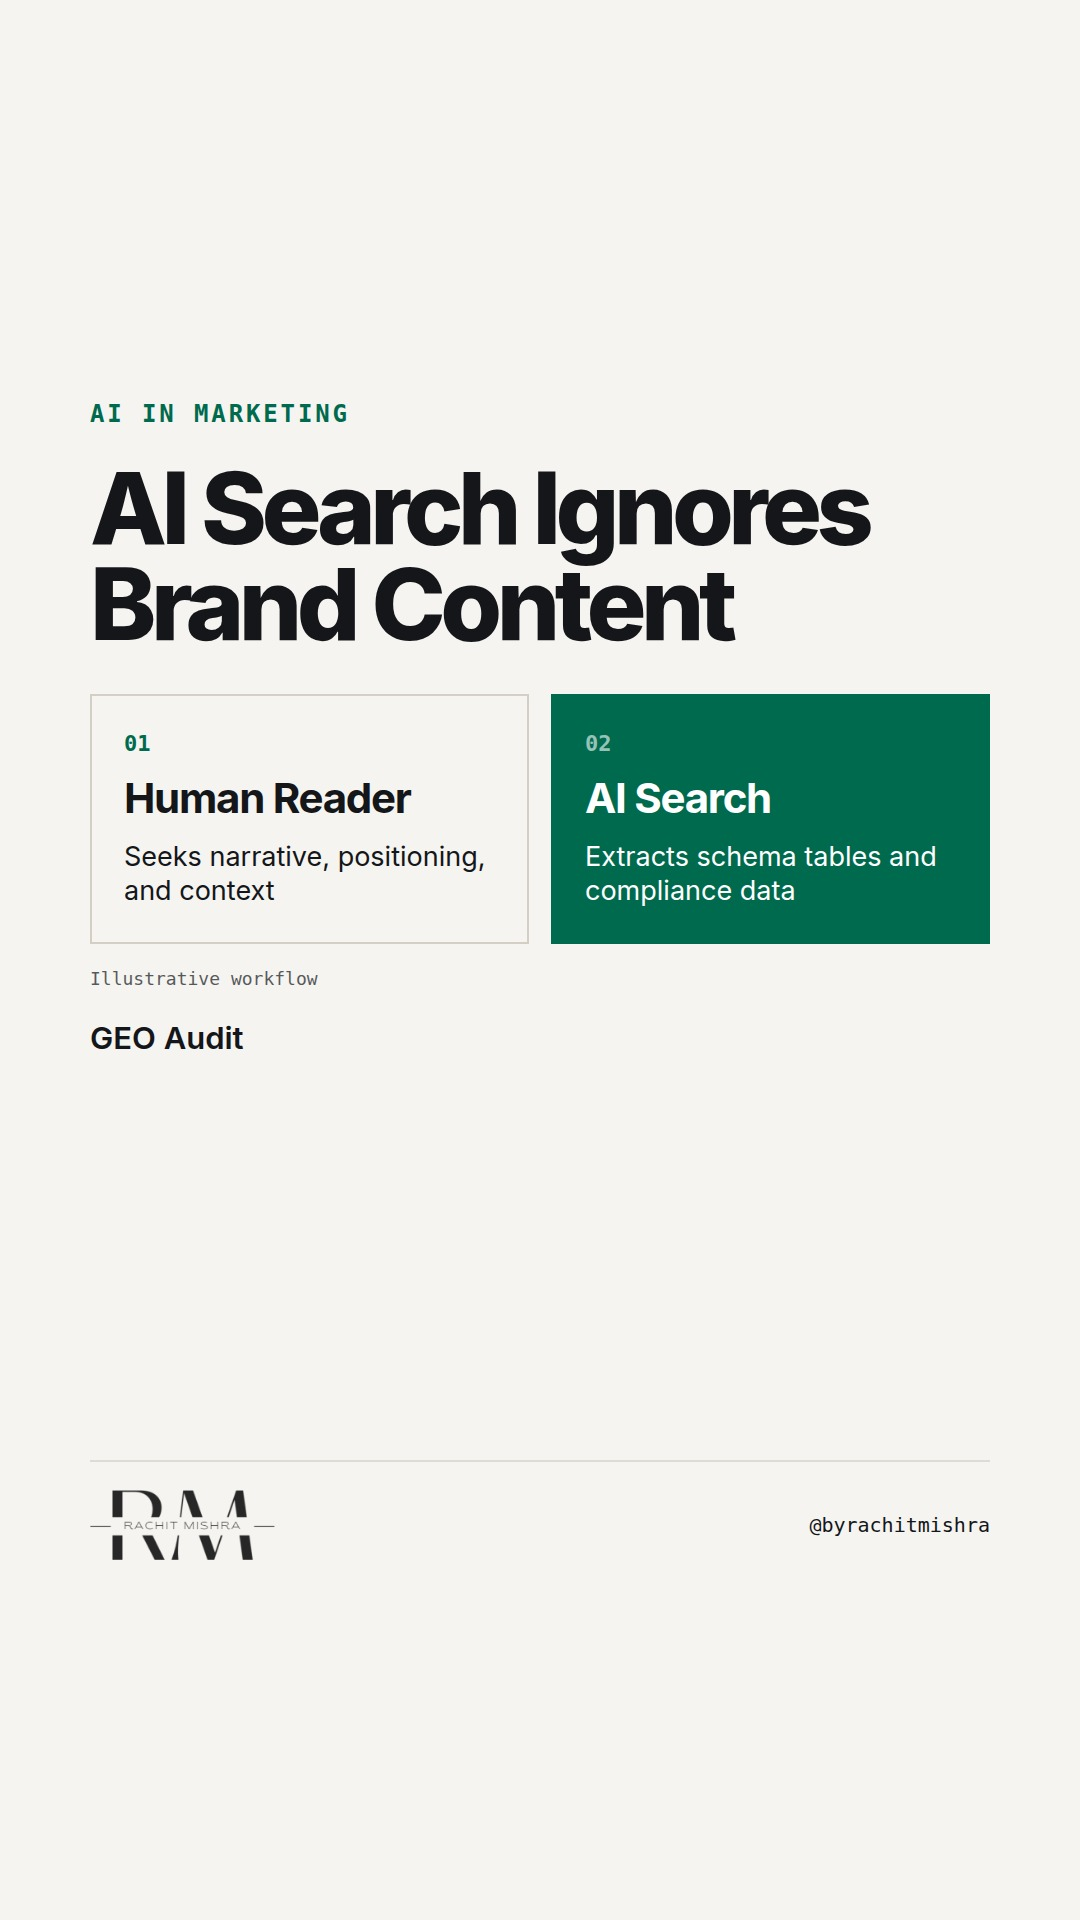
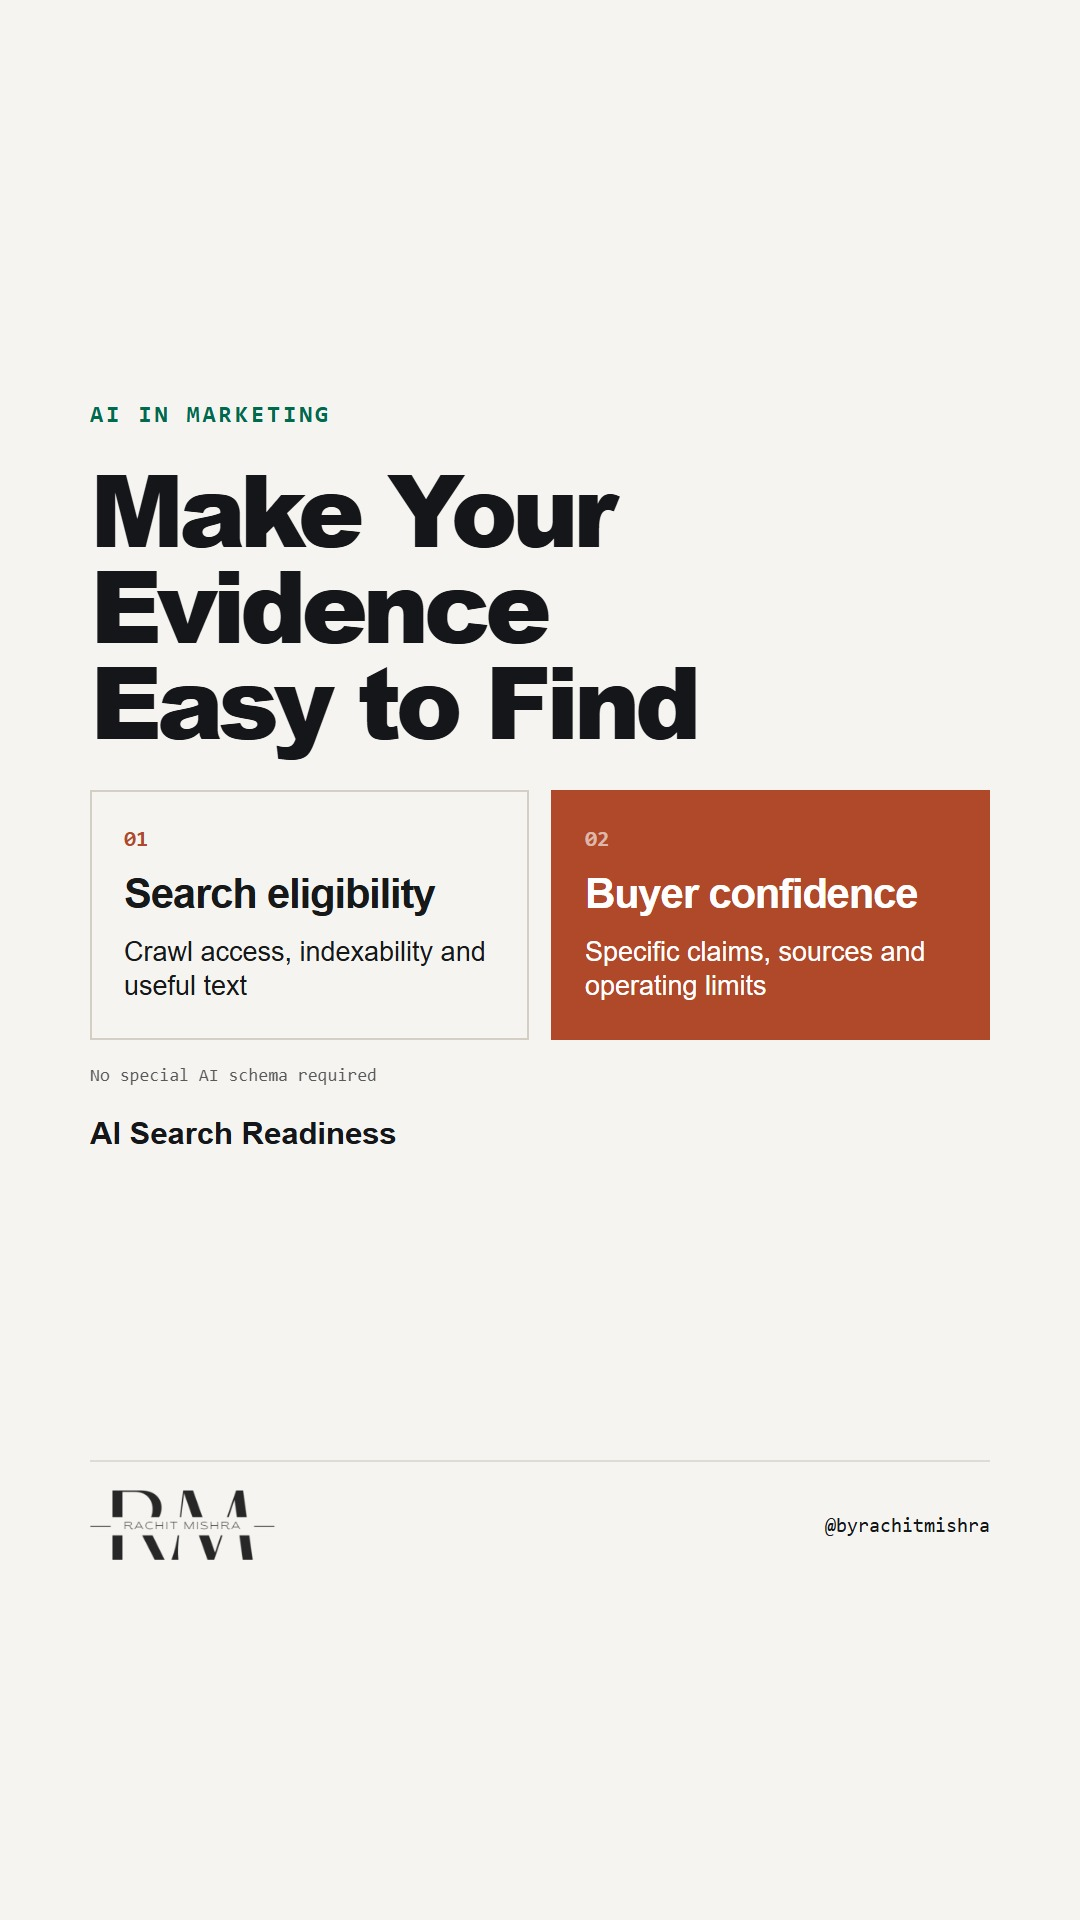
Correct AI-search guidance and AI-approval source for editorial review

Changed region(s): [[0.0611, 0.1875, 0.9167, 0.5938], [0.7639, 0.7812, 0.9167, 0.8125]]

diff --git a/content/approved/2026-11-02/fri-0830-generative-engine-optimisation-b2b/POST.md b/content/approved/2026-11-02/fri-0830-generative-engine-optimisation-b2b/POST.md
@@ -4,11 +4,11 @@
 
 > Targeting: `generative engine optimisation for B2B`
 >
-> Claim: AI search engines prioritize structured technical specifications and compliance data over traditional SEO content when answering enterprise procurement queries.
+> Claim: For Google's AI search features, SEO fundamentals remain relevant and no special schema is required. Clear, accessible evidence helps buyers understand a supplier's claims.
 >
-> Proof (framework): A three-part content structure test (structured spec sheets, regulatory tables, machine-readable pricing tiers) that ensures enterprise technical data is surfaced by generative answer engines.
+> Proof (framework): A practical audit of crawl access, visible technical evidence and source accuracy. Google's guidance says AI Overviews and AI Mode require no special schema; these checks do not guarantee inclusion or citation.
 >
-> Rendered infographics: 3 — comparison, comparison, checklist
+> Rendered infographics: 3 — checklist, checklist, comparison
 >
 > Reel assets: image `designed_gradient` · music `bed-something (13).mp3`
 
@@ -22,27 +22,36 @@
 
 | Time | On screen | Voiceover | Direction |
 |---|---|---|---|
-| 0:00-0:04 | **AI search ignores your polished blog posts.** | AI search ignores your polished blog posts. When a procurement team asks Perplexity or ChatGPT for vendor options, the model bypasses thought leadership. |  |
-| 0:04-0:09 | **Generative engines look for hard data.** | Generative engine optimisation for B2B requires a complete shift in format. AI engines extract facts, not narrative. |  |
-| 0:09-0:15 | **Traditional SEO vs GEO inputs** | Traditional search rewarded long-form articles. Generative engines look for structured specs, regulatory compliance codes, and exact operational thresholds. |  |
-| 0:15-0:22 | **Run this 3-point GEO readiness audit** | Here is a three-part audit to check if your technical product data is readable by generative search systems. |  |
-| 0:22-0:28 | **Raw technical specs beat brand stories.** | If your technical parameters sit inside locked PDFs or fuzzy brand copy, AI search tools simply skip your catalog. |  |
-| 0:28-0:34 | **Optimize for extraction, not attention.** | Optimize for machine extraction, not human skimming. That is how your product enters the short-list. |  |
+| 0:00-0:04 | **AI visibility starts with readable evidence.** | AI visibility starts with readable evidence. Start with useful pages, not promises of a secret ranking shortcut. |  |
+| 0:04-0:09 | **Google AI search still uses SEO fundamentals.** | For Google's AI Overviews and AI Mode, ordinary SEO fundamentals still matter. No special schema is required. |  |
+| 0:09-0:15 | **Check access before adding markup.** | Check that your important pages can be crawled, are indexed, and are eligible to show a search snippet. |  |
+| 0:15-0:22 | **Make technical claims easy to check.** | Put relevant specifications, operating limits and dated evidence in visible text. Use tables when they help a buyer compare. |  |
+| 0:22-0:28 | **Narrative and evidence can work together.** | Useful articles can provide context alongside technical evidence. Do not assume AI search ignores blogs or all PDFs. |  |
+| 0:28-0:34 | **Improve clarity. Never promise a citation.** | Make the page useful to people first. These checks do not guarantee that Google or another AI system will cite it. |  |
 
 ## Caption — copy from here
 
 ```
-AI search ignores your polished blog posts.
+AI visibility starts with readable evidence.
 
-Mastering generative engine optimisation for B2B means accepting that large language models do not read content the way humans do. When an enterprise buyer uses AI to screen vendors, the model looks for extractable facts, not brand storytelling.
+Generative engine optimisation for B2B starts with useful pages, not a secret ranking shortcut.
 
-If your product specs, ISO certifications, and operating limits are buried inside marketing prose or locked PDFs, the crawler skips them completely.
+For Google's AI Overviews and AI Mode, SEO fundamentals still apply. Google says there is no special schema or extra technical requirement for these features.
 
-The fix is architectural. You need structured schema, machine-readable tables, and explicit compliance references published on open web pages.
+For a B2B website, start with three practical checks:
 
-In B2B industrial sales, machine readability is becoming the new baseline for top-of-funnel discovery.
+1. Can important pages be crawled, indexed and shown with a snippet?
+2. Are specifications, operating limits and supporting evidence available in useful, visible text?
+3. Are sources current, and does any structured data match what the page actually says?
 
-Send this to whoever is responsible for your website strategy and technical SEO.
+Tables can make complex information easier to compare. Articles can provide context. Neither format guarantees inclusion, ranking or citation, and other AI services may work differently.
+
+Build pages that help buyers verify the promise, rather than chase a supposed AI-only shortcut.
+
+Source: Google Search Central — AI features and your website.
+https://developers.google.com/search/docs/appearance/ai-features
+
+Send this to whoever owns your website's technical content.
 
 [generative engine optimisation for b2b, b2b marketing, search engine optimization, martech]
 
@@ -52,9 +61,17 @@ Send this to whoever is responsible for your website strategy and technical SEO.
 ## Alt text
 
 ```
-Text graphic showing a comparison between traditional SEO blogs and machine-readable data tables.
+AI-search checks for crawl access, visible evidence and accurate markup; no citation guarantee.
 ```
 
 ## How this post could fail
 
-Could be dismissed as standard SEO advice if the emphasis on industrial product specs and compliance data isn't clear.
+Readers may apply Google-specific eligibility guidance to every AI service; the caption explicitly limits the claim and makes no inclusion guarantee.
+
+## Sources
+
+- [AI features and your website — Google Search Central](https://developers.google.com/search/docs/appearance/ai-features)
+
+
+## Review status
+DRAFT: corrected reel.mp4 must be uploaded before this post is approved for publishing.

diff --git a/content/approved/2026-11-02/fri-1900-ai-content-approval-workflow/POST.md b/content/approved/2026-11-02/fri-1900-ai-content-approval-workflow/POST.md
@@ -92,4 +92,4 @@ It could be mistaken for generic AI advice if the distinction between tone editi
 
 ## Sources
 
-- [Executive LinkedIn Strategy: Build Trust Without Becoming a Content Machine](https://www.rachitmishra.in/2026/10/23/executive-linkedin-strategy/)
+- [AI Content Review Checklist: What a Human Must Verify Before Publishing](https://www.rachitmishra.in/2026/10/27/ai-content-review-checklist/)
